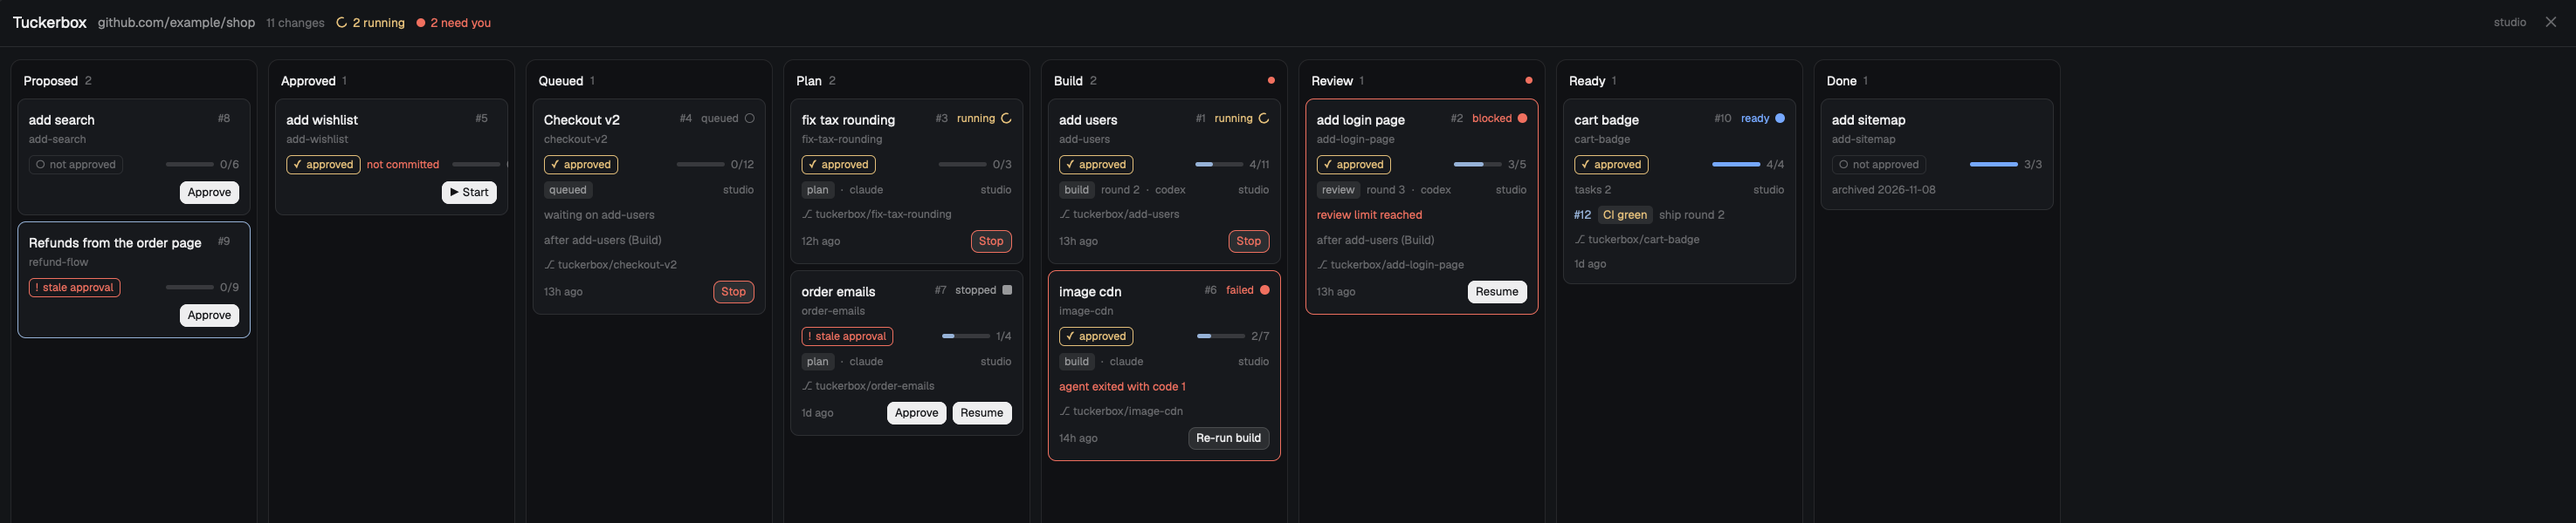
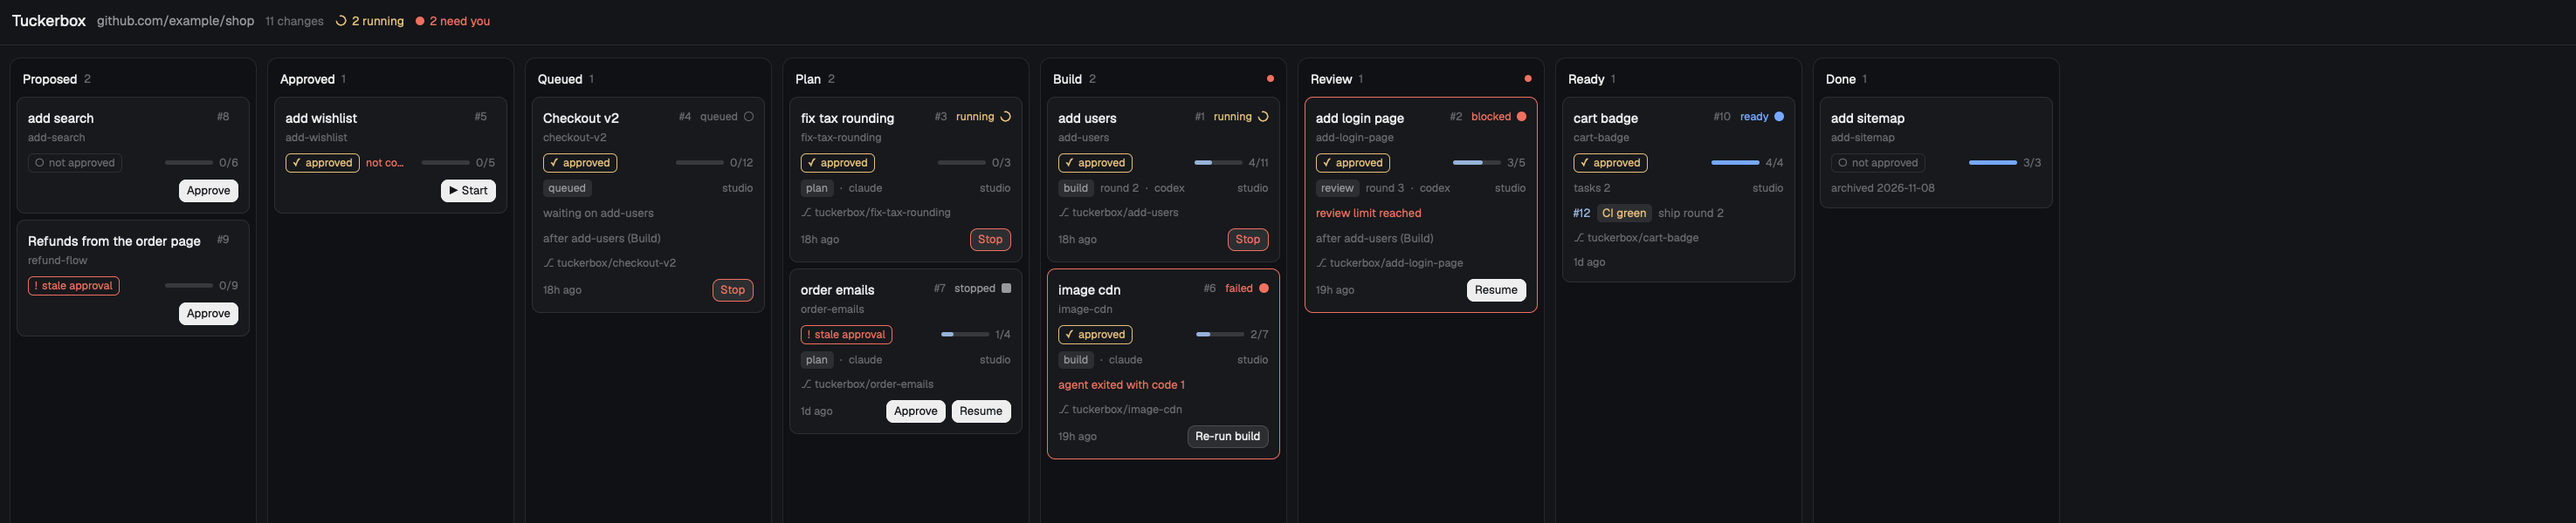
Board trial on three machines; name a machine without tuckerbox; keep task counts visible
Ran the board trial (1.1) with live runs on mac-studio, mac-27 and mac-mini
in a scratch repository. Two small fixes it found in the mod:

- A connected machine where tuckerbox can't start was named "unreachable";
  it now says "<machine> has no tuckerbox" (execFailure in model.js).
- On a card with "not committed" or "not published", the task count was
  pushed off the card's edge; those notes now truncate instead.

The README board screenshot is re-shot from the fixtures with the fix (its
add-wishlist card showed the clipped count). Ticks 1.1 and 1.2.

Claude-Session: https://claude.ai/code/session_01Xp3cQXpkHgZEhmVEJmGvev

diff --git a/herdr/mods/tuckerbox-board/board.js b/herdr/mods/tuckerbox-board/board.js
@@ -204,8 +204,8 @@ export class BoardView extends View {
         .child(stateChip(c) ?? div()))
       .child(h_flex().items_center().gap(6)
         .child(approvalChip(c.approval, { short: true }))
-        .when(!c.approval.committed && c.approval.state !== "none", (el) => el.child(div().text_size(10.5).text_color(tm.blocked).child("not committed")))
-        .when(!c.approval.published, (el) => el.child(div().text_size(10.5).text_color(tm.blocked).child("not published")))
+        .when(!c.approval.committed && c.approval.state !== "none", (el) => el.child(div().min_w(0).truncate().text_size(10.5).text_color(tm.blocked).child("not committed")))
+        .when(!c.approval.published, (el) => el.child(div().min_w(0).truncate().text_size(10.5).text_color(tm.blocked).child("not published")))
         .child(div().flex_1())
         .when(c.tasks.total > 0, (el) => el.child(progressBar(c.tasks, 46))))
       .when(Boolean(c.badge || c.step || c.agent || c.scope), (el) => el.child(h_flex().items_center().gap(6).text_size(10.5).text_color(tm.dim)
@@ -272,7 +272,7 @@ export class BoardView extends View {
       .child(div().flex_1())
       // Machines that couldn't be asked: named, their cards missing, the others shown.
       .children((b?.unreachable ?? []).map((u, i) => div().id(`unreachable-${i}`).text_size(11).text_color(tm.blocked)
-        .tooltip(u.message).child(`${u.machine ?? "this computer"} unreachable`)))
+        .tooltip(u.message).child(`${u.machine ?? "this computer"} ${u.missing ? "has no tuckerbox" : "unreachable"}`)))
       .when(Boolean(b?.machine), (el) => el.child(div().text_size(11).text_color(tm.dim).child(b.machine)))
       // Dock only with a board to show: no Tuckerbox config, no Dock.
       .when(Boolean(overlay && b && !b.fixtures), (el) => el.child(tiny("dock", "Dock ⇥", (_e, cx) => this.dock(cx), { tooltip: "Show the board as a pane beside the terminals" })))

diff --git a/herdr/mods/tuckerbox-board/test/machines.test.js b/herdr/mods/tuckerbox-board/test/machines.test.js
@@ -2,7 +2,7 @@
 // their boards merge into the one shown.   node --test test/
 import { test } from "node:test";
 import assert from "node:assert/strict";
-import { normaliseBoard, otherMachines, sharedRepo, fitColumn, mergeBoards, group, cardAt } from "../model.js";
+import { normaliseBoard, otherMachines, sharedRepo, fitColumn, mergeBoards, group, cardAt, execFailure } from "../model.js";
 
 const COMPACT = [
   { id: "proposed", kind: "proposed", name: "Proposed" },
@@ -48,6 +48,23 @@ test("An unreachable machine is named and hides no card", () => {
     { machine: "laptop", board: { error: { code: "repo_not_found", message: "no checkout" } } },
   ]);
   assert.deepEqual(b.unreachable, [{ machine: "mini", message: "connection refused" }]);
+  assert.deepEqual(b.cards.map((c) => c.change), ["change-a"]);
+});
+
+test("A connected machine without tuckerbox is named as such, not as unreachable", () => {
+  // herdr-core's exec when the program is missing, and when the machine is down (board trial).
+  assert.equal(execFailure("cannot start tuckerbox: No such file or directory (os error 2)"), "not_installed");
+  assert.equal(execFailure("mac-mini-m6 is unreachable: cannot reach mac-mini-m6: ssh: connect to host port 22: Operation timed out"), "unreachable");
+  assert.equal(execFailure(undefined), "unreachable");
+  const own = normaliseBoard(doc("studio", "/work/shop", [card("change-a")]));
+  const b = mergeBoards(own, [
+    { machine: "linux-box", board: { error: { code: "not_installed", message: "cannot start tuckerbox" } } },
+    { machine: "mini", board: { error: { code: "unreachable", message: "offline" } } },
+  ]);
+  assert.deepEqual(b.unreachable, [
+    { machine: "linux-box", message: "cannot start tuckerbox", missing: true },
+    { machine: "mini", message: "offline" },
+  ]);
   assert.deepEqual(b.cards.map((c) => c.change), ["change-a"]);
 });
 

diff --git a/herdr/mods/tuckerbox-board/model.js b/herdr/mods/tuckerbox-board/model.js
@@ -532,6 +532,13 @@ export function otherMachines(list, own = null) {
     .map((m) => ({ name: m.name ?? null, reachable: m.layout !== "unavailable" }));
 }
 
+// Why exec of tuckerbox was rejected: "not_installed" when the machine
+// answered but tuckerbox couldn't start there (herdr-core: "cannot start
+// tuckerbox: No such file or directory"), else "unreachable".
+export function execFailure(message) {
+  return /cannot start|no such file|ENOENT/i.test(String(message ?? "")) ? "not_installed" : "unreachable";
+}
+
 // A repository with no remote has its checkout path as its key, and lives on
 // one machine only (design: Matching a repository across machines).
 export function sharedRepo(board) {
@@ -589,7 +596,10 @@ export function mergeBoards(own, others = []) {
     const b = o?.board;
     if (!b || b.error) {
       if (b?.error?.code === "repo_not_found") continue;
-      unreachable.push({ machine: o?.machine ?? null, message: b?.error?.message || "unreachable" });
+      const u = { machine: o?.machine ?? null, message: b?.error?.message || "unreachable" };
+      // A connected machine without tuckerbox is named as such, not as unreachable.
+      if (b?.error?.code === "not_installed") u.missing = true;
+      unreachable.push(u);
       continue;
     }
     if (b.repo !== own.repo) continue;

diff --git a/herdr/mods/tuckerbox-board/data.js b/herdr/mods/tuckerbox-board/data.js
@@ -2,7 +2,7 @@
 // the dev flag, the fixtures next to this file. The board reads nothing else
 // (design: the mod calls the CLI, never the files).
 import { exec, readTextFile, appHome, props, spaces, panes, focused, machines } from "herdr";
-import { parseBoard, normaliseBoard, dirFromStack, repoCandidates, pickRepo, otherMachines, sharedRepo, mergeBoards } from "./model.js";
+import { parseBoard, normaliseBoard, dirFromStack, repoCandidates, pickRepo, otherMachines, sharedRepo, mergeBoards, execFailure } from "./model.js";
 
 export const MOD = "tuckerbox-board";
 
@@ -81,8 +81,9 @@ async function tuckerbox(args, { cwd, on }, timeout = 20000) {
     return parseBoard(r.stdout ?? "", r.stderr ?? "", r.code ?? 0, { on });
   } catch (e) {
     const msg = String(e?.message ?? e);
-    // exec rejects when the program can't start: tuckerbox isn't on that machine's PATH.
-    return { error: { code: "unreachable", message: msg } };
+    // exec rejects when the program can't start (tuckerbox isn't on that
+    // machine's PATH) or the machine can't be reached.
+    return { error: { code: execFailure(msg), message: msg } };
   }
 }
 

diff --git a/openspec/changes/followup-board-trial/tasks.md b/openspec/changes/followup-board-trial/tasks.md
@@ -2,8 +2,8 @@
 
 ## 1. Trial and screenshots
 
-- [ ] 1.1 `herdr-app check` passes; try the board with runs on two connected machines, including edit, tick and approve (from `add-herdr-board` 6.10); record what was tried and found in the pull request
-- [ ] 1.2 Screenshots of the board and card detail in README, from fixtures or a scratch repository (from `add-herdr-board` 7.1); verify the images render on the repository page
+- [x] 1.1 `herdr-app check` passes; try the board with runs on two connected machines, including edit, tick and approve (from `add-herdr-board` 6.10); record what was tried and found in the pull request
+- [x] 1.2 Screenshots of the board and card detail in README, from fixtures or a scratch repository (from `add-herdr-board` 7.1); verify the images render on the repository page
 
 ## Workflow follow-up
 
